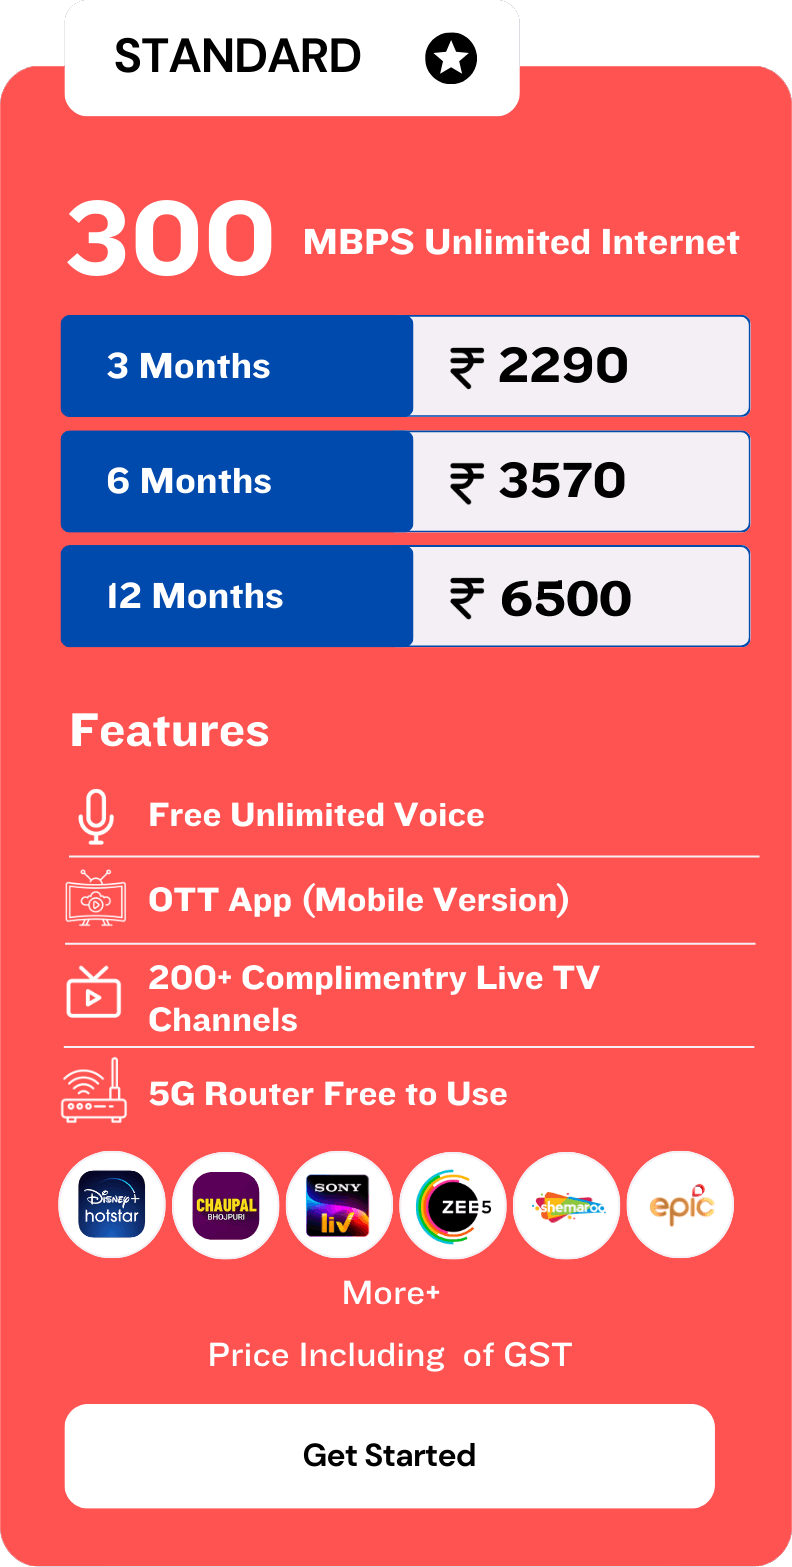
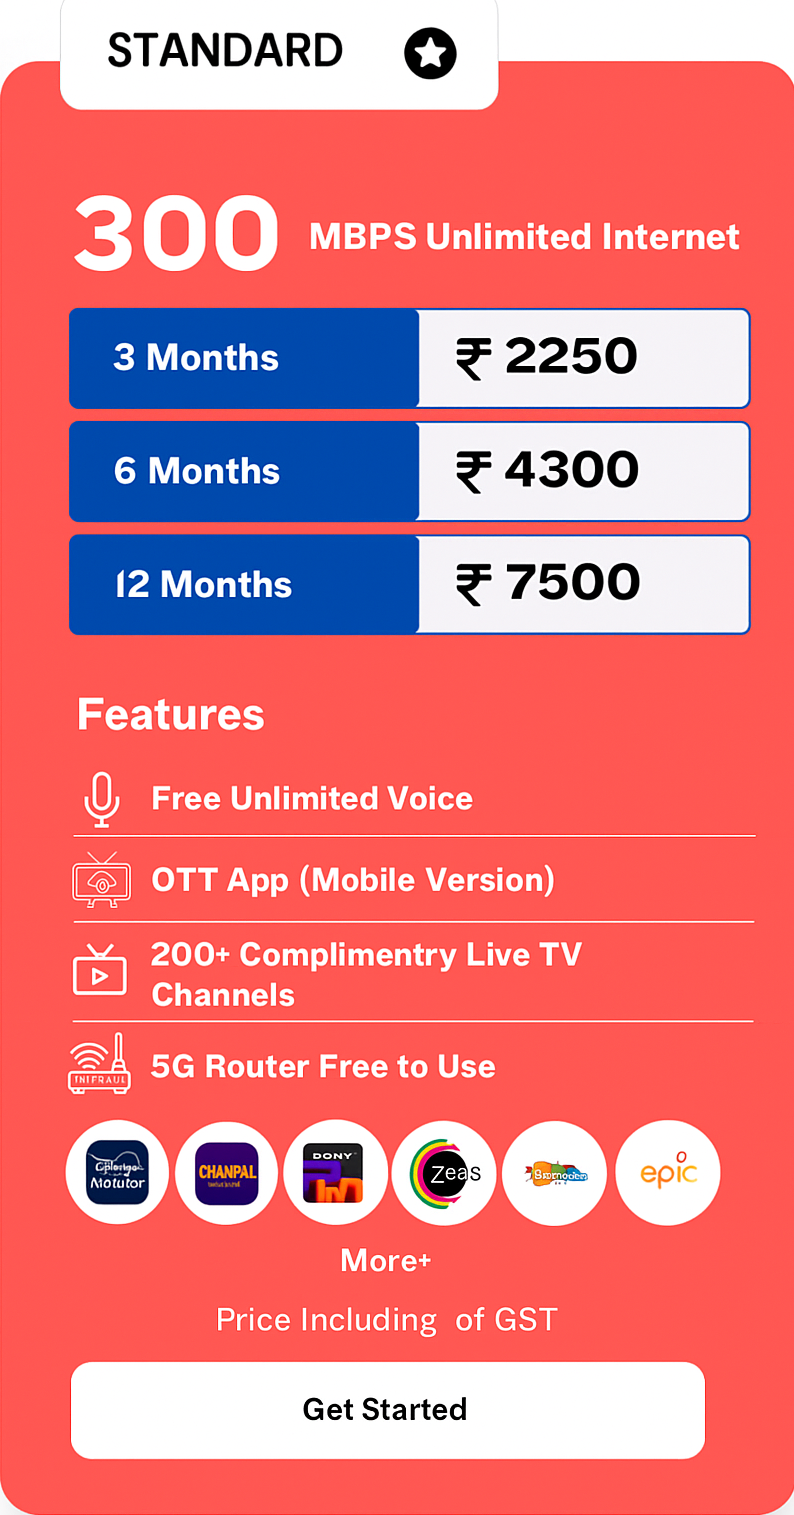
refactor: update plan images and add highlighted 50 Mbps plan section

diff --git a/src/components/Plans.jsx b/src/components/Plans.jsx
@@ -8,7 +8,7 @@ const plans = [
   },
   {
     title: "Standard Plan",
-    image: "/Plans/offer2.png",
+    image: "/Plans/plan2.png",
     highlighted: true,
   },
   {
@@ -79,6 +79,27 @@ const Plans = () => {
               />
             </motion.div>
           ))}
+        </div>
+
+        <div>
+          {/* 50 Mbps Plan Highlighted */}
+          <motion.h4
+            className="text-3xl font-bold mt-12"
+            animate={{
+              scale: [1, 1.1, 1],
+              opacity: [1, 0.6, 1],
+              color: ["#1e40af", "#dc2626", "#1e40af"],
+            }}
+            transition={{
+              duration: 1.2,
+              repeat: Infinity,
+              ease: "easeInOut",
+            }}
+          >
+            50 Mbps Plan - Starting at{" "}
+            <span className="font-extrabold">₹1350 (3 months)</span>
+          </motion.h4>
+          <span className="text-[20px] text-gray-500">Price Including of GST</span>
         </div>
 
         {/* Note */}
